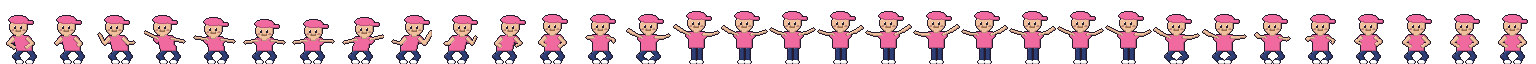
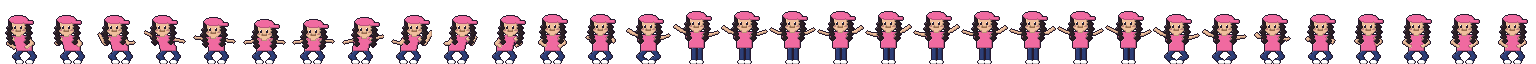
Dance Evolution: Street Miri's cap sits on her curls
The cap had replaced her hair; her long dark curls now show under it. dance-v23.

Claude-Session: https://claude.ai/code/session_01KjbiH1Gxo3FA48ifQDakKd

Changed region(s): [[0.0, 0.3125, 1.0, 0.75]]

diff --git a/dance/sw.js b/dance/sw.js
@@ -1,6 +1,6 @@
 // Dance Evolution service worker: the app shell is cached on install; the beast pictures and anything else under ../art
 // are cached as they are first fetched (cache first after that). Bump CACHE together with APP_VERSION in app.js.
-const CACHE = 'dance-v22';
+const CACHE = 'dance-v23';
 const SHELL = ['./', 'index.html', 'app.js', 'style.css', 'manifest.webmanifest', 'dancers.json', 'art/font.json', 'art/font.png'];
 self.addEventListener('install', e => { e.waitUntil(caches.open(CACHE).then(c => Promise.all(SHELL.map(u => c.add(u).catch(() => {})))).then(() => self.skipWaiting())); });
 self.addEventListener('activate', e => { e.waitUntil(caches.keys().then(ks => Promise.all(ks.filter(k => k.startsWith('dance-') && k !== CACHE).map(k => caches.delete(k)))).then(() => self.clients.claim())); });

diff --git a/dance/app.js b/dance/app.js
@@ -4,7 +4,7 @@
    decision, 30 Oct 2026: the names are fixed in the game); a level is "<stage> <name>". Save in
    localStorage['dance.save']; nothing is sent anywhere. */
 'use strict';
-const APP_VERSION = '22';
+const APP_VERSION = '23';
 const ART = 'art/';
 const NAMES = ['Lainey', 'Miri', 'Juliette'];   // youngest first
 let SPEC = null;
